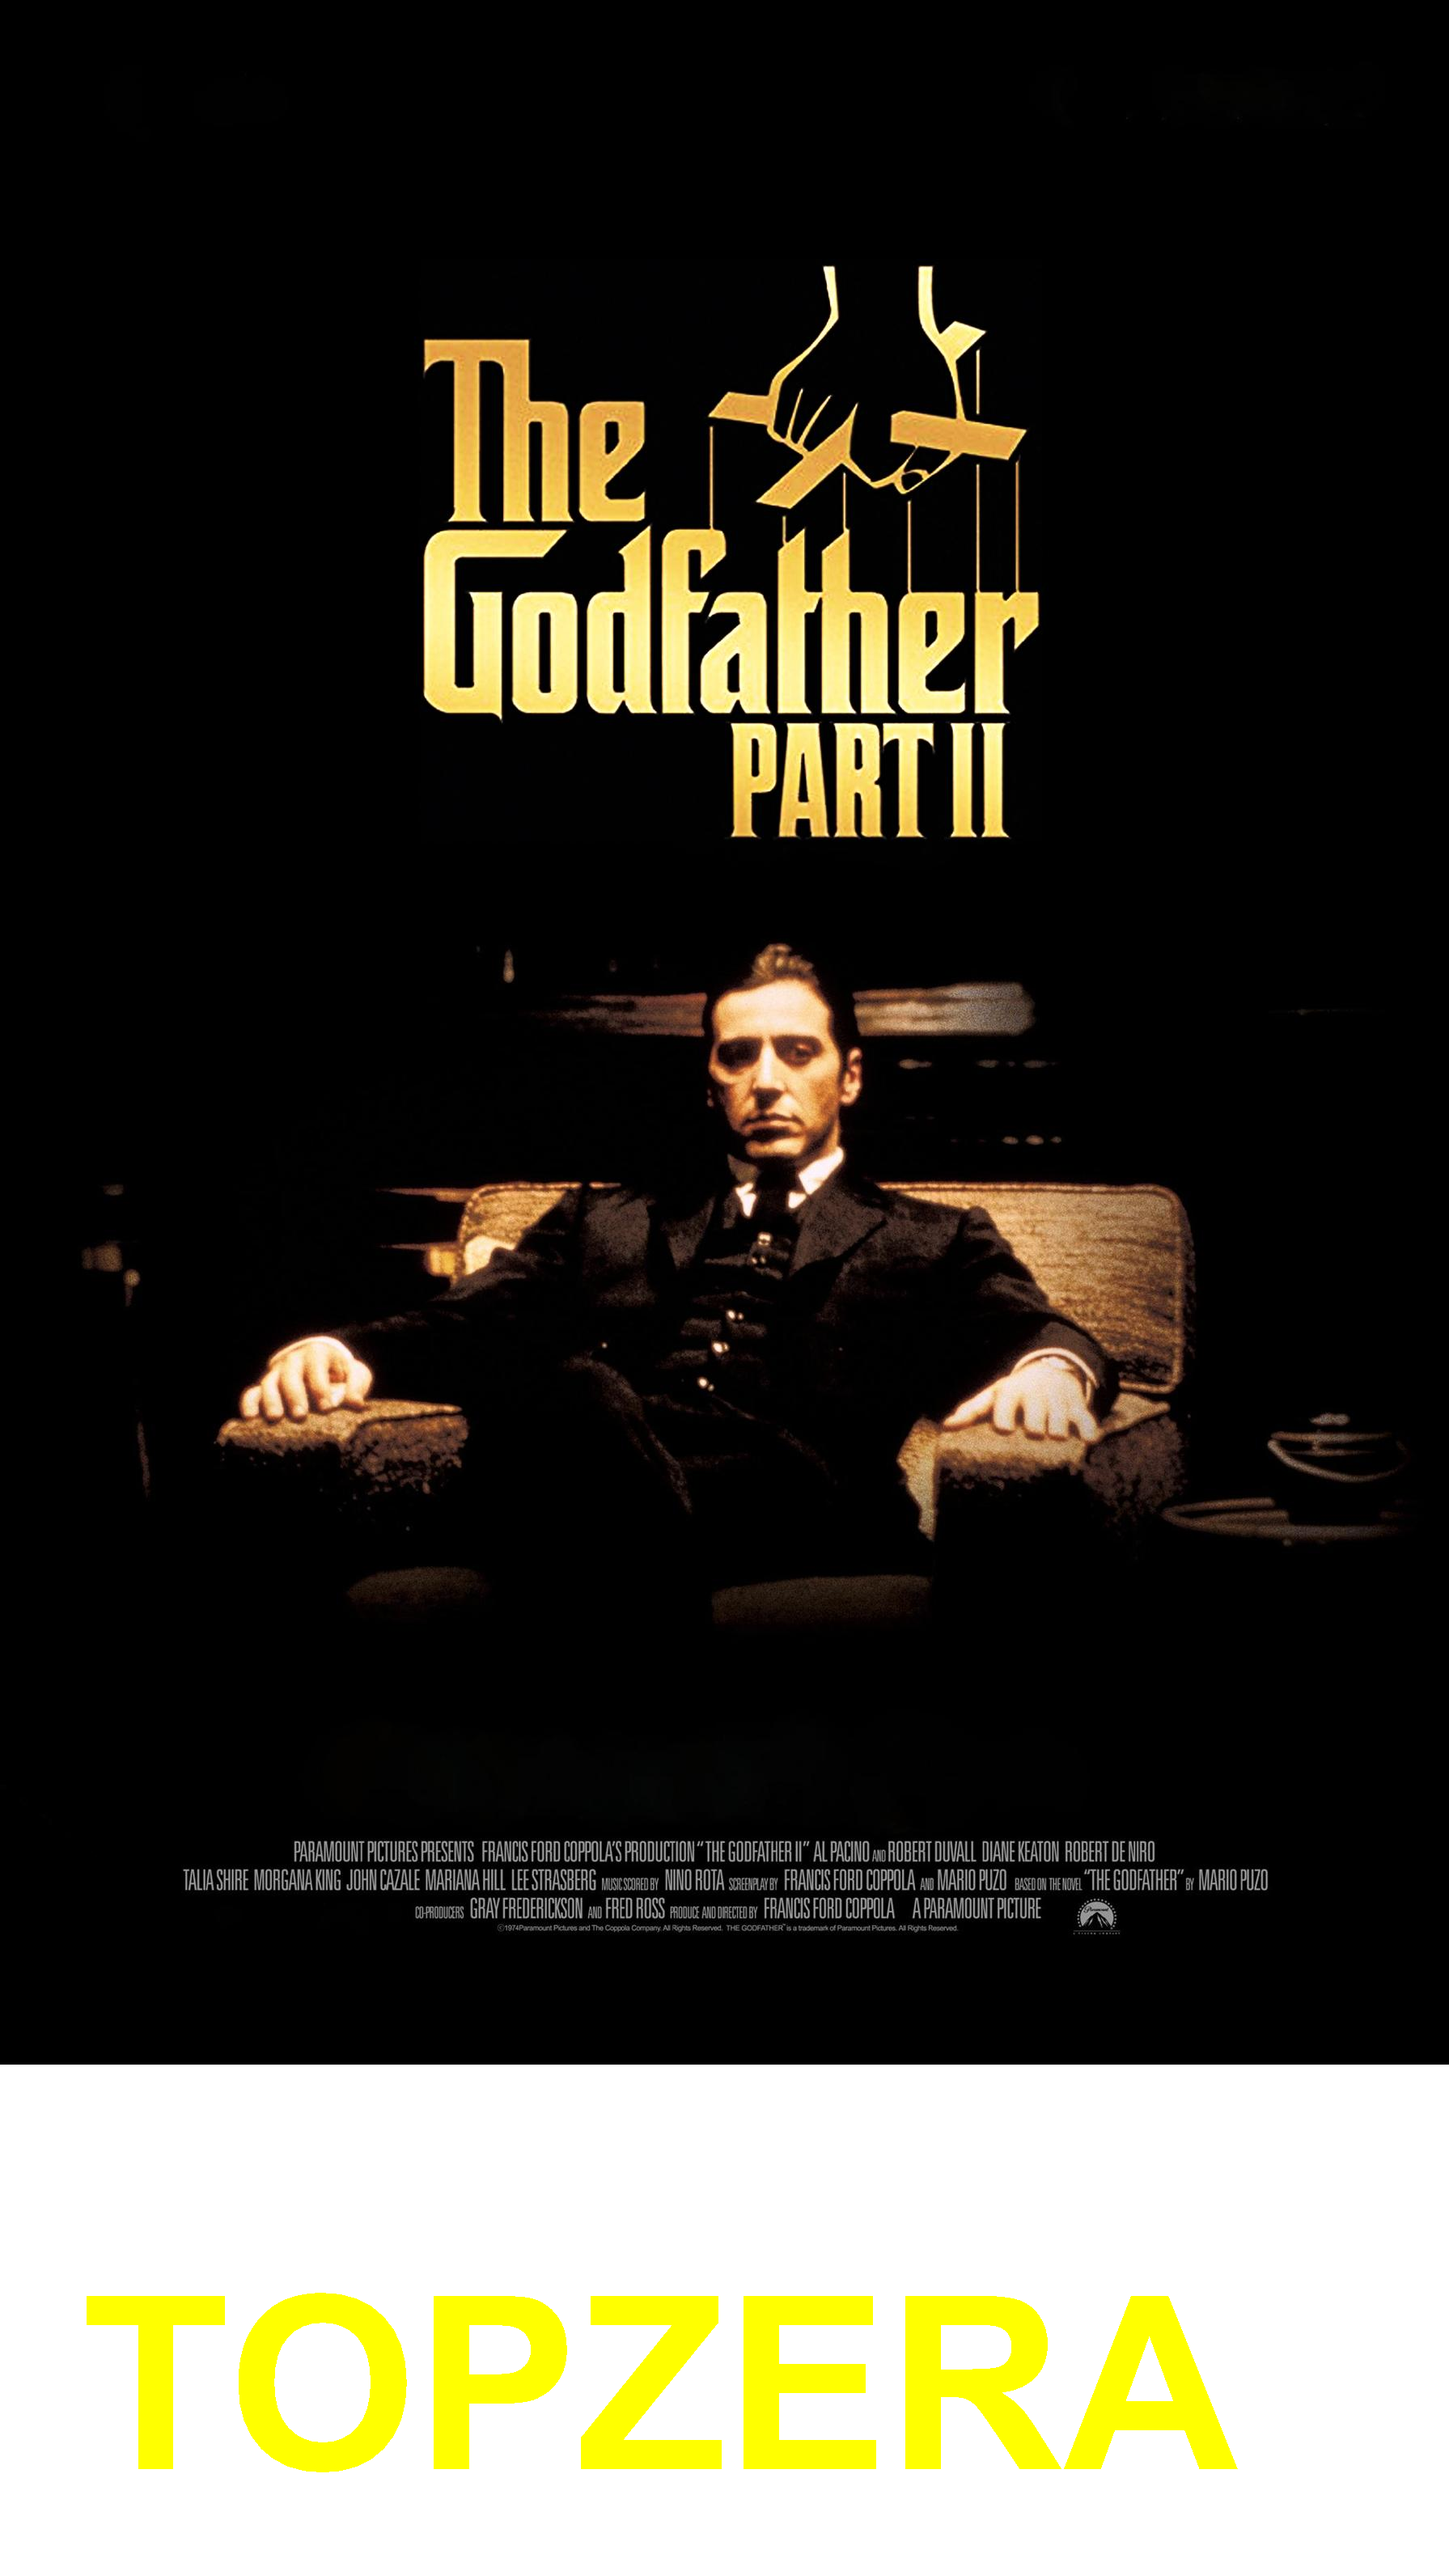
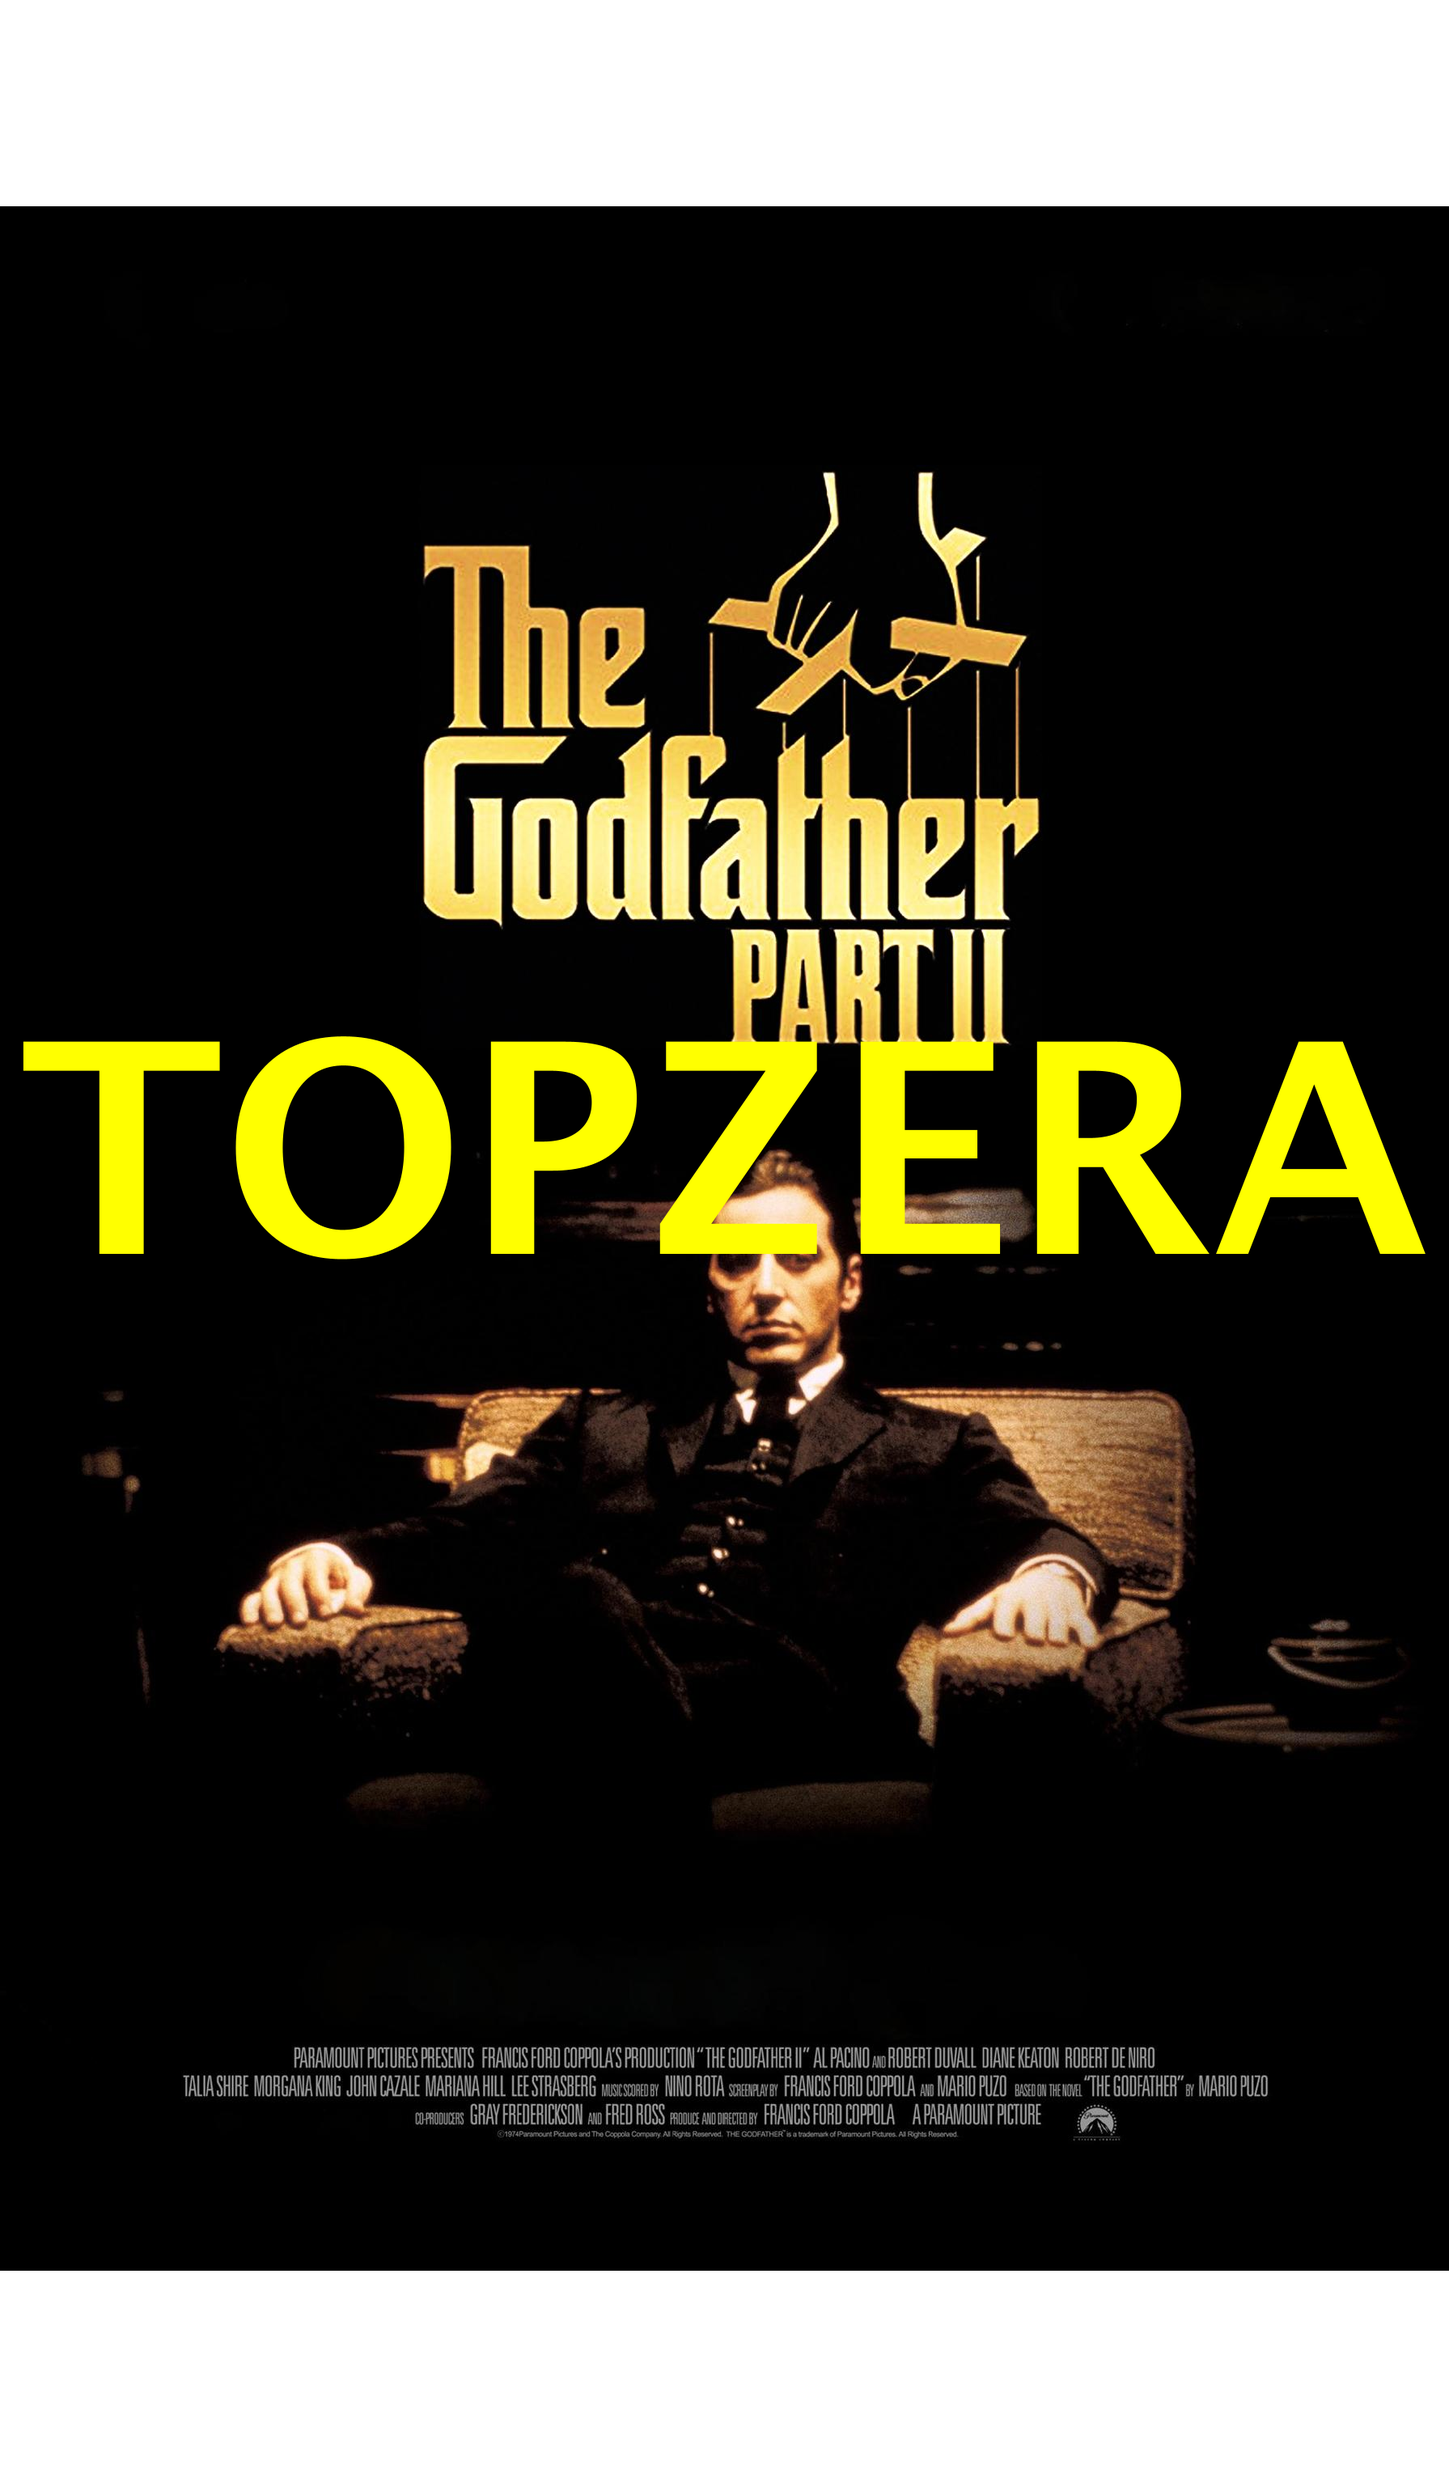
text-config

diff --git a/src/StickerGenerator.java b/src/StickerGenerator.java
@@ -1,6 +1,8 @@
 import java.awt.Color;
 import java.awt.Font;
+import java.awt.FontMetrics;
 import java.awt.Graphics2D;
+import java.awt.geom.Rectangle2D;
 import java.awt.image.BufferedImage;
 import java.io.File;
 import java.io.InputStream;
@@ -11,30 +13,55 @@ public class StickerGenerator {
     
     public void criate(InputStream inputStream, String nomeArquivo) throws Exception{
         //read the image
-        // InputStream inputStream = new URL("https://raw.githubusercontent.com/alura-cursos/imersao-java-2-api/main/TopMovies_1.jpg").openStream();
         BufferedImage originalImage = ImageIO.read(inputStream);
-
+    
         //create new image with new dimensions and translucent
         int width = originalImage.getWidth();
         int height = originalImage.getHeight();
-        int newHeight = height + 600;
+        int marginHeight = (int) (height * 0.2);
+        int newHeight = height + marginHeight;
         BufferedImage newImage = new BufferedImage(width, newHeight, BufferedImage.TRANSLUCENT);
-
+    
         //copy the original image into the new image
         Graphics2D graphics = (Graphics2D) newImage.getGraphics();
-        graphics.drawImage(originalImage, 0, 0, null);
-
+        graphics.drawImage(originalImage, 0, marginHeight/2, null);
+    
         //Font configuration
         graphics.setColor(Color.YELLOW);
-        var font = new Font(Font.SANS_SERIF, Font.BOLD, 300);
+        var font = new Font(Font.SANS_SERIF, Font.BOLD, 150);
         graphics.setFont(font);
+        String text = "TOPZERA";
+        int fontSize = font.getSize();
+        int maxWidth = originalImage.getWidth() - 50;
+        FontMetrics fm = graphics.getFontMetrics(font);
+    
+        while (fm.stringWidth(text) > maxWidth) {
+            fontSize--;
+            font = font.deriveFont((float) fontSize);
+            graphics.setFont(font);
+            fm = graphics.getFontMetrics();
+        }
+    
+        while (fm.stringWidth(text) < maxWidth) {
+            fontSize++;
+            font = font.deriveFont((float) fontSize);
+            graphics.setFont(font);
+            fm = graphics.getFontMetrics();
+        }
+    
+        Rectangle2D bounds = fm.getStringBounds(text, graphics);
+        int x = (int) ((originalImage.getWidth() - bounds.getWidth())/2);
+        
+        //calculate the y coordinate to align the text to the vertical center of the new image
+        int y = (newHeight - marginHeight) / 2 + fm.getAscent() - fm.getDescent();
         
         //create a text into the new image
-        graphics.drawString("TOPZERA", 100, newHeight - 100);
+        graphics.drawString(text, x, y);
         
         //save the new image
         ImageIO.write(newImage, "png", new File(nomeArquivo));
         
     }
+    
 
 }
